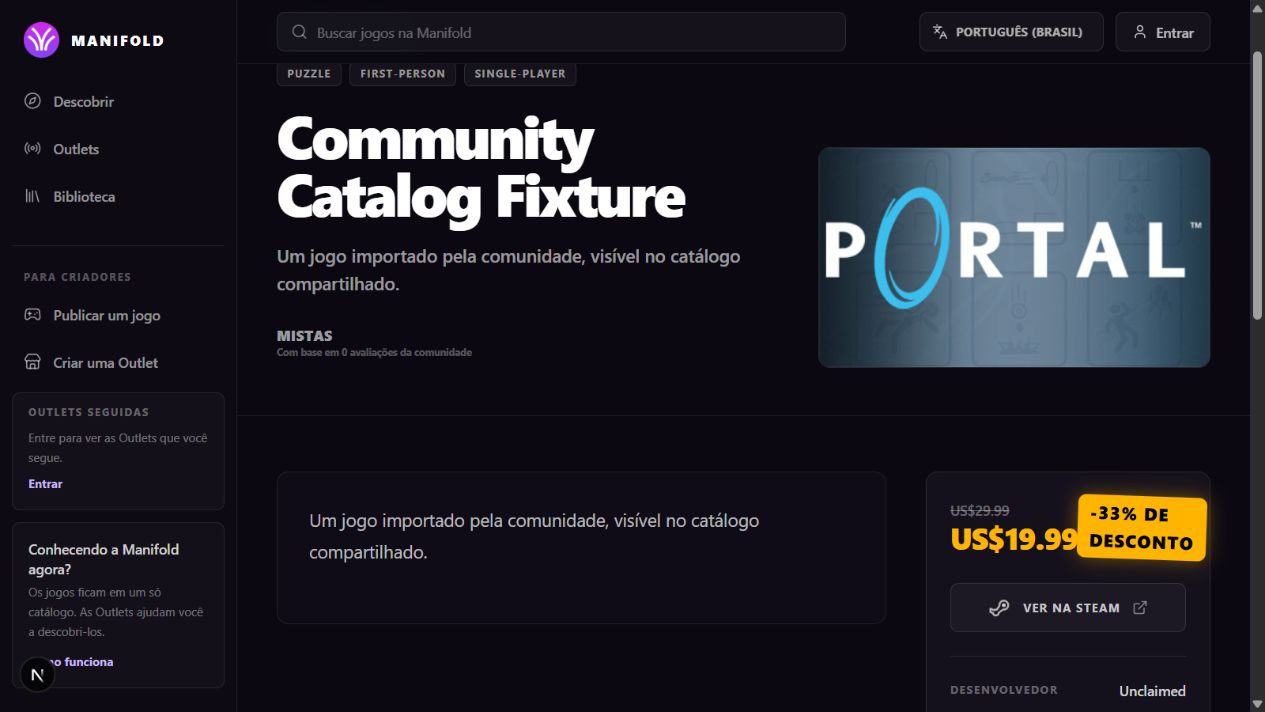
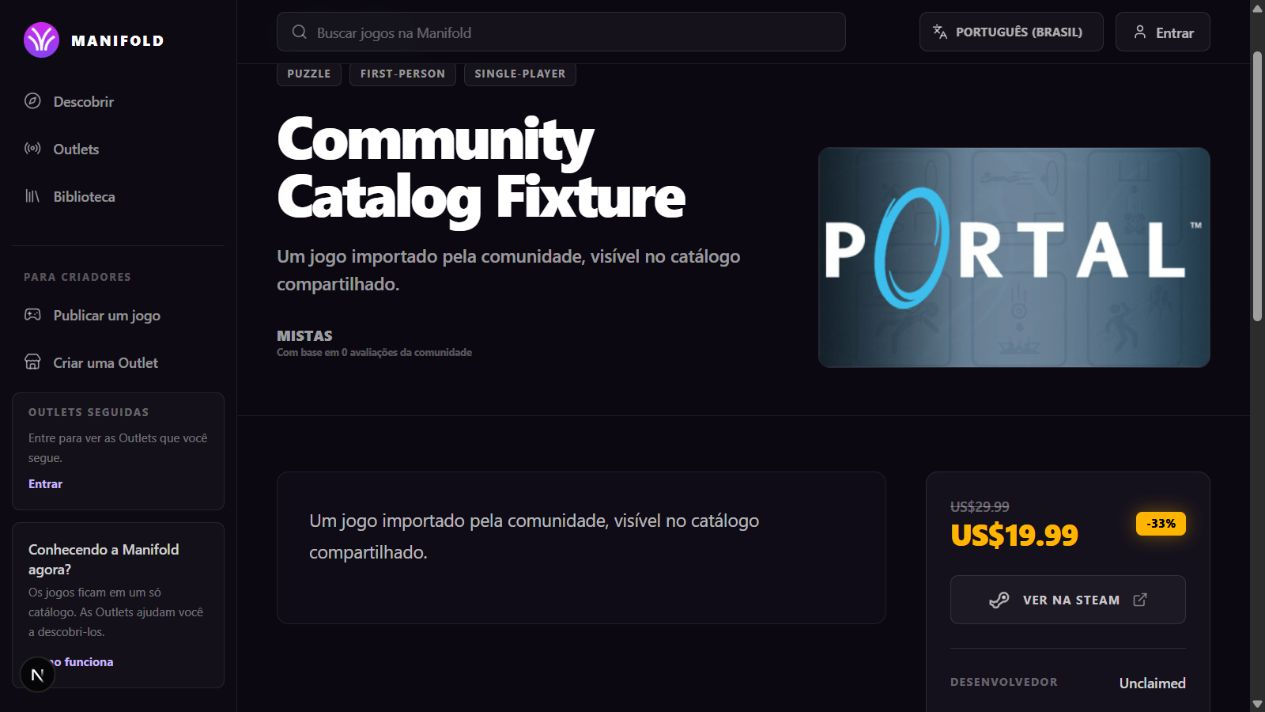
fix: unify discount badge styling

diff --git a/components/store/DiscountBadge.tsx b/components/store/DiscountBadge.tsx
@@ -1,5 +1,4 @@
 import { discountBadgeColor } from "./constants";
-import { useI18n } from "lib/i18n";
 
 export function DiscountBadge({
   label,
@@ -10,18 +9,17 @@ export function DiscountBadge({
   color?: string;
   size?: "normal" | "small";
 }) {
-  const { t } = useI18n();
   return (
     <span
-      className={`py-1 rounded-lg text-xs md:text-lg font-black text-black uppercase tracking-wider shadow-lg transform rotate-2 animate-pulse-glow ${
-        size === "small" ? "text-xs py-2 px-1" : "text-sm px-3"
+      className={`inline-flex items-center justify-center rounded-md font-black leading-none text-black shadow-lg ${
+        size === "small" ? "px-2 py-1 text-[10px]" : "px-2.5 py-1.5 text-xs"
       }`}
       style={{
         backgroundColor: color,
         boxShadow: `0 0 20px ${color}66`,
       }}
     >
-      {label && size === "normal" ? t("{label} OFF", { label }) : label}
+      {label}
     </span>
   );
 }

diff --git a/components/storefront/default/PlatformStorefrontHome.tsx b/components/storefront/default/PlatformStorefrontHome.tsx
@@ -14,6 +14,7 @@ import {
 } from "lucide-react";
 
 import { DiscoverOutlets } from "components/store/DiscoverOutlets";
+import { DiscountBadge } from "components/store/DiscountBadge";
 import type { GameApi } from "components/store/types";
 import type { DefaultStorefrontProps } from "components/storefront/types";
 import {
@@ -329,8 +330,8 @@ function GameCard({ game, href }: { game: GameApi; href: string }) {
           <div className="h-full w-full bg-[linear-gradient(135deg,#28183b,#15101d)]" />
         )}
         {discountLabel && formatCatalogBasePrice(game) && (
-          <span className="absolute bottom-2 left-2 rounded-md bg-emerald-400 px-2 py-1 text-[10px] font-black uppercase tracking-wide text-emerald-950">
-            {discountLabel}
+          <span className="absolute bottom-2 left-2">
+            <DiscountBadge label={discountLabel} size="small" />
           </span>
         )}
       </div>

diff --git a/tests/unit/components/storefront/PlatformStorefrontHome.test.tsx b/tests/unit/components/storefront/PlatformStorefrontHome.test.tsx
@@ -149,6 +149,9 @@ describe("PlatformStorefrontHome", () => {
     expect(markup).toContain("$19.99");
     expect(markup).toContain("$29.99");
     expect(markup).toContain("-33%");
+    expect(markup).toContain("background-color:#FFB400");
+    expect(markup).not.toContain("bg-emerald-400");
+    expect(markup).not.toContain("-33% OFF");
     expect(markup.toLowerCase()).not.toContain("on steam");
   });
 });
